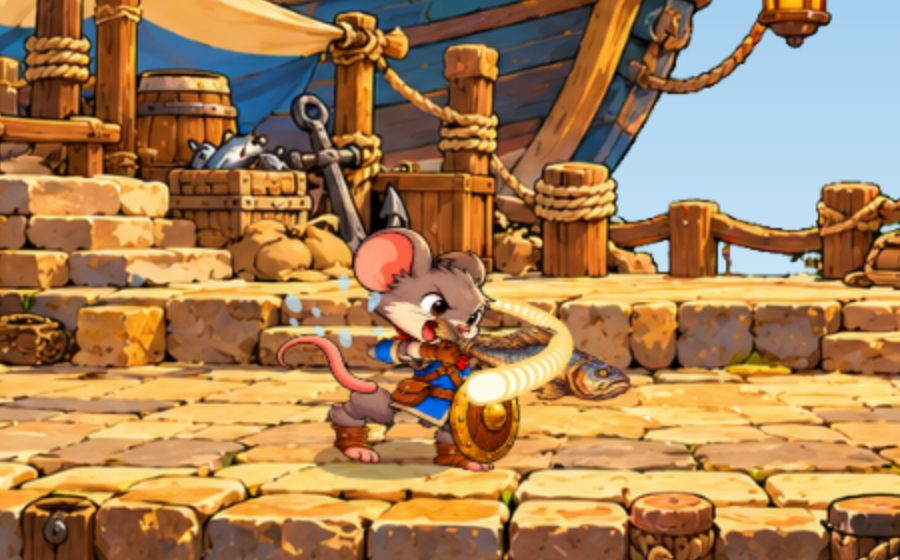
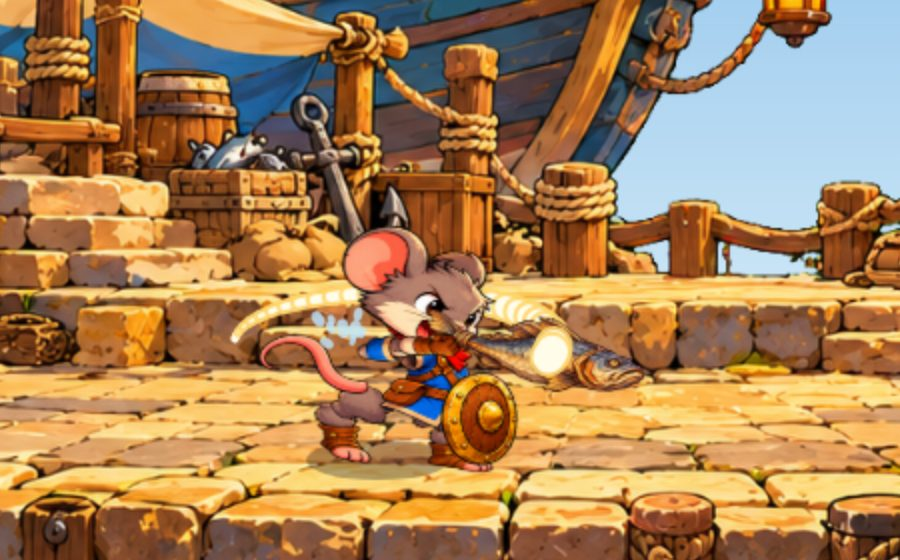
T017 round 5: fish sag 0.24 (user's lab pick); build v5

Changed region(s): [[0.2489, 0.3946, 0.7156, 0.85]]

diff --git a/src/data/items/big-fish.js b/src/data/items/big-fish.js
@@ -13,5 +13,5 @@ export default {
   // fling: swinging flings it straight (windup = stiffness by the windup's end, fully stiff from the strike, limp again over
   // `release` of the recovery with a springy overshoot: period s, damping).
   feel: { wobble: { period: 0.22, damping: 0.13, gain: 1.3, bob: 0.4, max: 40 }, squash: { amount: 0.32, time: 0.45 },
-    bend: { segs: 10, sag: 0.12, flop: 0.85, fling: { windup: 0.6, release: 0.4, period: 0.32, damping: 0.22 } } },
+    bend: { segs: 10, sag: 0.24, flop: 0.85, fling: { windup: 0.6, release: 0.4, period: 0.32, damping: 0.22 } } },
 };

diff --git a/src/config.js b/src/config.js
@@ -3,4 +3,4 @@ export const VIEW = { w: 960, h: 540 };   // internal resolution; CSS scales to 
 export const FPS = 60;                    // sim runs at a fixed 60 steps/sec; all timings are in frames
 export const START_STAGE = 'harbor-run';   // ?stage=harbor-market in the URL loads the single-screen arena
 export const START_HERO = 'mouse-fighter';
-export const BUILD = 't017 weapon feel v4';
+export const BUILD = 't017 weapon feel v5';

diff --git a/docs/STATUS.md b/docs/STATUS.md
@@ -49,6 +49,7 @@
 - League of Legends-style hero kits (passive + three cooldown abilities + an ultimate, on top of the basic combo), like Dungeon Fighter Online. User is a big LoL fan. Idea only, for Stage 8 heroes; mind button count.
 
 ## Last session
+2026-10-15 code: T017 round 5: fish sag per slice 0.12 -> 0.24 (user's lab pick); still flung straight and level at the strike; build v5.
 2026-10-15 code: T017 round 4 (user: floppier in motion; stiff at the strike "like gravity is throwing it outward"): looser wobble, more of it as bend; the slap flings the fish straight (stiffens over the windup, fully stiff from the strike) and it whips limp again with an overshoot; build v4.
 2026-10-15 code: T017 round 3 (user: fish "not exactly drooping toward the ground"): each slice now turns part of the way toward straight down, so the fish hangs limp nose-to-floor whatever way it is held; build v3.
 2026-10-15 code: T017 round 2 (user: fish "juts out stiff"): the fish is drawn bent in slices from the grip, sagging nose-down by gravity and flopping with the wobble. User: weapons all feel good. Parked for the lead: block shuffle has no footwork (boots pinned while moving in block).
